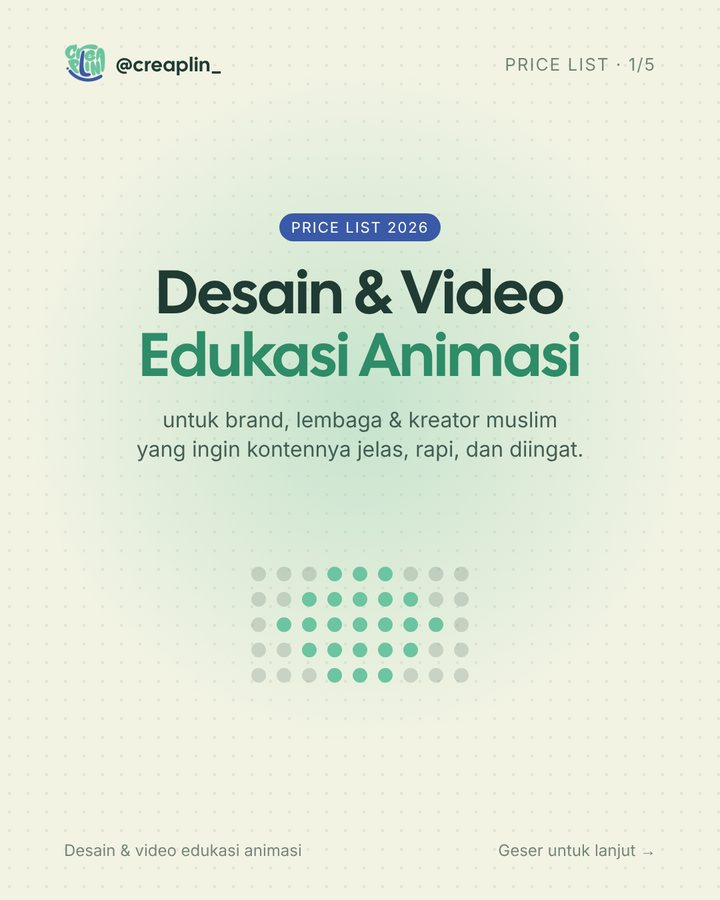
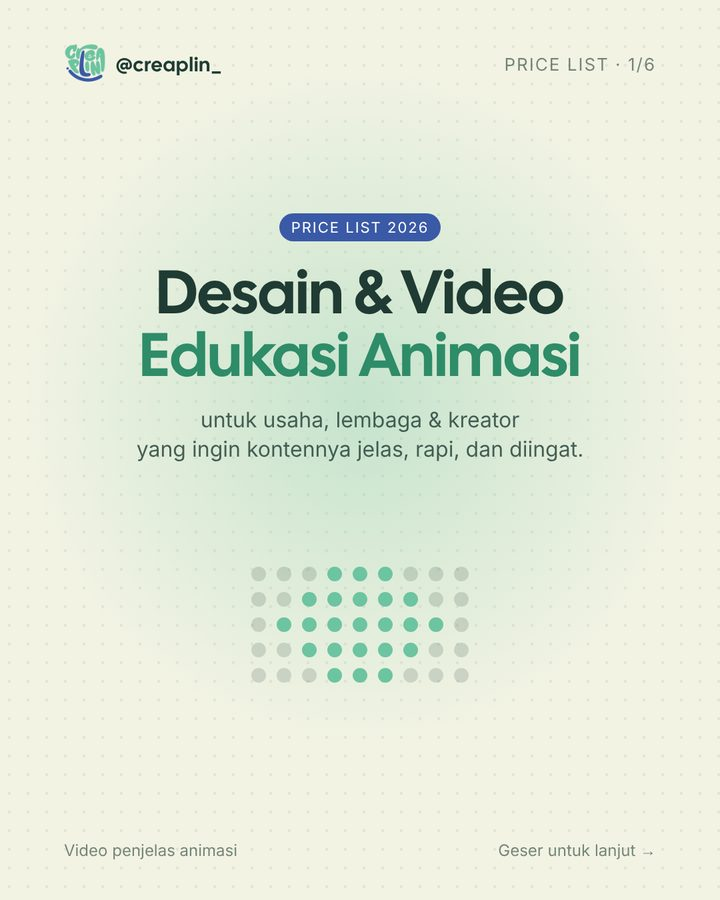
Harga baru (paket 4 video Rp 800 rb) + jasa web profil usaha
Claude-Session: https://claude.ai/code/session_0152c3VVn5ncZcP8BU52szDt

diff --git a/index.html b/index.html
@@ -4,7 +4,7 @@
 <meta charset="utf-8">
 <meta name="viewport" content="width=device-width, initial-scale=1, viewport-fit=cover">
 <title>Creaplin: video penjelas animasi dan desain</title>
-<meta name="description" content="Video penjelas animasi 30 sampai 60 detik bergaya data titik untuk usaha, klinik, kursus, properti, dan lembaga. Hal rumit jadi gampang dimengerti. Mulai Rp 750 rb.">
+<meta name="description" content="Video penjelas animasi 30 sampai 60 detik bergaya data titik untuk usaha, klinik, kursus, properti, dan lembaga. Hal rumit jadi gampang dimengerti. Mulai Rp 250 rb. Juga web profil usaha.">
 <meta property="og:type" content="website">
 <meta property="og:title" content="Creaplin: video penjelas animasi dan desain">
 <meta property="og:description" content="Video penjelas animasi bergaya data titik: hal rumit jadi gampang dimengerti dalam 30 detik.">
@@ -676,13 +676,18 @@ body::before { content: ""; position: fixed; inset: 0 0 auto; height: env(safe-a
       <div>
         <ul class="daftar">
           <li data-muncul="kiri">
-            <h3>Video penjelas animasi</h3><span class="harga">mulai Rp 750 rb</span>
+            <h3>Video penjelas animasi</h3><span class="harga">mulai Rp 250 rb</span>
             <p>Video 30 sampai 60 detik untuk Reels dan TikTok: naskah, narasi suara, animasi, dan subtitle. Untuk produk, layanan, atau program yang perlu dijelaskan: klinik, kursus, properti, keuangan, sekolah, dan lainnya.</p>
           </li>
           <li data-muncul="kiri">
-            <h3>Paket 4 video sebulan</h3><span class="harga">Rp 2,5 jt</span>
+            <h3>Paket 4 video sebulan</h3><span class="harga">Rp 800 rb</span>
             <p>Satu video setiap minggu dengan satu gaya yang konsisten untuk akunmu.</p>
-            <p><span class="promo">Rp 1,5 jt untuk tiga klien pertama, bulan pertama</span></p>
+            <p><span class="promo">Harga ramah UMKM, sekitar Rp 200 rb per video</span></p>
+          </li>
+          <li data-muncul="kiri">
+            <h3>Web profil usaha</h3><span class="harga">mulai Rp 1,5 jt</span>
+            <p>Web pengenalan untuk usahamu (bukan toko online): profil, menu atau layanan, galeri, tombol WhatsApp, dan peta. 3 sampai 5 halaman mulai Rp 2,5 jt. Hosting gratis, domain dibayar terpisah.</p>
+            <p>Mau ubah menu dan harga sendiri? Tambah Rp 250 rb, cukup lewat Google Sheet.</p>
           </li>
           <li data-muncul="kiri">
             <h3>Desain feed dan carousel</h3><span class="harga">mulai Rp 75 rb</span>
@@ -822,7 +827,7 @@ const KATEGORI = [
   { id: 'video-edukasi', judul: 'Video edukasi animasi', sampul: 'cv-video.jpg',
     ringkas: 'Video 30 sampai 60 detik bergaya data titik untuk Reels dan TikTok.',
     teks: 'Naskah, narasi, animasi data titik, dan subtitle karaoke. Untuk menjelaskan produk, layanan, atau program yang sulit dijelaskan lewat poster.',
-    harga: 'Rp 750 rb', waktu: '5–7 hari',
+    harga: 'Rp 250 rb', waktu: '3–5 hari',
     proyek: [
       { judul: 'Creapedia: Hitung Waktumu', teks: 'Umur dan sisa Ramadhan diubah jadi titik: satu titik untuk satu bulan, atau satu Ramadhan.', rasio: '9 / 16', kolom: 4, gambar: [['hw1.jpg', 'Grid titik umur 60 tahun'], ['ramadhan2.jpg', '35 kesempatan Lailatul Qadr dalam titik'], ['th-hw1.jpg', 'Sampul video Kalau Umurmu 60 Tahun'], ['th-ramadhan.jpg', 'Sampul video Sisa Ramadhanmu']] },
       { judul: 'Creapedia: Bedah Surah', teks: 'Surah pendek dibedah kata demi kata: satu titik untuk satu kata, dibandingkan dengan seluruh Al-Qur\'an.', rasio: '9 / 16', kolom: 4, gambar: [['ikhlas.jpg', 'Al-Ikhlas kata demi kata'], ['fatihah.jpg', 'Al-Fatihah dalam gelembung dialog hadits qudsi'], ['th-ikhlas.jpg', 'Sampul video Al-Ikhlas'], ['th-fatihah.jpg', 'Sampul video Al-Fatihah']] },
@@ -836,7 +841,7 @@ const KATEGORI = [
       { judul: 'Ponfit: Challenge 17an bersama Dino Pon', info: 'Klien: Ponfit, gym di Bukittinggi. 2025.', teks: 'Campaign lomba deadlift 17 Agustus yang meriah ala acara olahraga. Cover animasi dibuka dengan gigitan maskot Dino Pon, lalu slide aturan lomba. Desain dan animasi oleh Creaplin; maskot milik Ponfit.', rasio: '4 / 5', kolom: 4, gambar: [['ponfit-1.mp4', 'Cover animasi Bahkan Challenge: maskot Dino Pon menggigit layar lalu cover muncul', 'ponfit-1.jpg'], ['ponfit-2.jpg', 'Slide Challenge 17an: kelas dan total hadiah'], ['ponfit-3.jpg', 'Slide teknis challenge'], ['ponfit-4.jpg', 'Slide syarat dan ketentuan'], ['ponfit-5.jpg', 'Slide penilaian dan prosedur angkatan'], ['ponfit-6.jpg', 'Slide pelanggaran umum'], ['ponfit-7.jpg', 'Slide hadiah: Samsung Fit 3, Huawei Band 10, dan voucher member']] },
       { judul: 'Beranda Brand: Call to Action dan Call to Value', info: 'Magang di Dipdop, untuk akun Beranda Brand. Sekitar 2024.', teks: 'Carousel edukasi marketing yang menjelaskan beda dua jenis ajakan, dengan judul bergaya kertas sobek, foto potong, dan sorotan kuning pada kalimat kunci.', rasio: '1 / 1', kolom: 4, gambar: [['beranda-1.jpg', 'Sampul: Call to Action dan Call to Value, bedanya apa?'], ['beranda-2.jpg', 'Slide Same but Different'], ['beranda-3.jpg', 'Slide penjelasan Call to Action dengan contoh'], ['beranda-4.jpg', 'Slide penjelasan Call to Value dengan contoh']] },
       { judul: 'Kawan Kerja: Tanda-tanda bisnis butuh website', info: 'Magang, untuk akun Kawan Kerja, jasa pembuatan website. 2024.', teks: 'Carousel edukasi yang mengajak pemilik bisnis membuat website: motif gelombang biru, ilustrasi karakter, dan aksen bintang oranye yang dipakai konsisten di semua slide.', rasio: '1 / 1', kolom: 5, gambar: [['kawankerja-1.jpg', 'Sampul: tanda-tanda bisnis kamu butuh website'], ['kawankerja-2.jpg', 'Slide 01: tanda-tanda bisnis yang lesu'], ['kawankerja-3.jpg', 'Slide 02: manfaat website untuk bisnis'], ['kawankerja-4.jpg', 'Slide 03: masih ragu membuat website?'], ['kawankerja-5.jpg', 'Slide penutup: ajakan dan kontak Kawan Kerja']] },
-      { judul: 'Price list Creaplin', teks: 'Carousel 5 slide berisi layanan, harga, promo, dan cara order, dengan versi story-nya.', rasio: '4 / 5', kolom: 5, gambar: [['pl1.jpg', 'Slide sampul price list'], ['pl2.jpg', 'Slide layanan video edukasi animasi'], ['pl3.jpg', 'Slide harga desain grafis'], ['pl4.jpg', 'Slide paket bulanan dan promo'], ['pl5.jpg', 'Slide cara order']] },
+      { judul: 'Price list Creaplin', teks: 'Carousel 6 slide berisi layanan, harga, paket bulanan, web profil, dan cara order, dengan versi story-nya.', rasio: '4 / 5', kolom: 3, gambar: [['pl1.jpg', 'Slide sampul price list'], ['pl2.jpg', 'Slide layanan video edukasi animasi'], ['pl3.jpg', 'Slide harga desain grafis'], ['pl4.jpg', 'Slide paket bulanan'], ['pl5.jpg', 'Slide web profil usaha'], ['pl6.jpg', 'Slide cara order']] },
       { judul: 'Cara order Creaplin', teks: 'Carousel 6 slide yang menjelaskan alur order, dari DM sampai file dikirim.', rasio: '4 / 5', kolom: 3, gambar: [['co1.jpg', 'Slide sampul cara order'], ['co2.jpg', 'Langkah 1 dan 2'], ['co3.jpg', 'Langkah 3 dan 4'], ['co4.jpg', 'Langkah 5 dan 6'], ['co5.jpg', 'Estimasi waktu pengerjaan'], ['co6.jpg', 'Ajakan konsultasi']] },
       { judul: 'Sampul video Creapedia', teks: 'Sampul yang tetap terbaca saat tampil kecil di grid profil.', rasio: '9 / 16', kolom: 6, gambar: [['th-hw1.jpg', 'Sampul Hitung Waktumu 01'], ['th-ramadhan.jpg', 'Sampul Hitung Waktumu 02'], ['th-ikhlas.jpg', 'Sampul Bedah Surah 01'], ['th-fatihah.jpg', 'Sampul Bedah Surah 02'], ['th-adam.jpg', 'Sampul Kisah Nabi Adam'], ['th-nuh.jpg', 'Sampul Kisah Nabi Nuh']] }
     ] },
@@ -862,7 +867,7 @@ const KATEGORI = [
   { id: 'motion-promosi', judul: 'Video promosi dan motion', sampul: 'cv-motion.jpg',
     ringkas: 'Cover motion, video promosi, dan animasi pixel art untuk media sosial.',
     teks: 'Teks bergerak, narasi suara, dan subtitle, dengan semua tulisan aman dari tombol Reels dan TikTok.',
-    harga: 'Rp 750 rb', waktu: '5–7 hari',
+    harga: 'Rp 250 rb', waktu: '3–5 hari',
     proyek: [
       { judul: 'mots × Creaplin: War Torn City of Martinaise', info: 'Kolaborasi dengan mots, media yang membahas musik. 2026.', teks: 'Cover motion pixel art untuk postingan feed mots, bertema kota Martinaise dari game Disco Elysium. Kamera turun dari langit senja, kota industri muncul, lalu judul retro memudar masuk. Seluruh animasi oleh Creaplin.', rasio: '4 / 5', kolom: 3, gambar: [['mots-1.mp4', 'Cover motion War Torn City of Martinaise: kamera turun dari langit ke dermaga kota', 'mots-1.jpg'], ['mots-2.jpg', 'Awal animasi: kota industri muncul dari balik langit jingga'], ['mots-1.jpg', 'Akhir animasi: judul retro dan dua karakter pixel di dermaga']] },
       { judul: 'Ponfit: cover animasi Challenge 17an', info: 'Klien: Ponfit, gym di Bukittinggi. 2025.', teks: 'Cover carousel yang bergerak: maskot Dino Pon menggigit layar, lalu judul, hadiah, dan "You vs Dino Pon" memantul masuk.', rasio: '4 / 5', kolom: 3, gambar: [['ponfit-1.mp4', 'Cover animasi Bahkan Challenge', 'ponfit-1.jpg']] },
